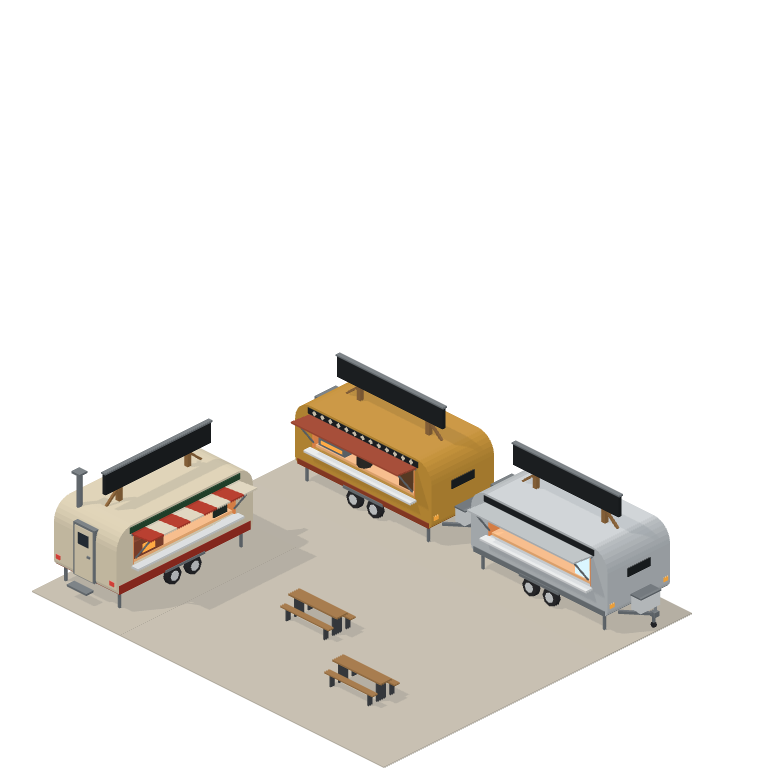
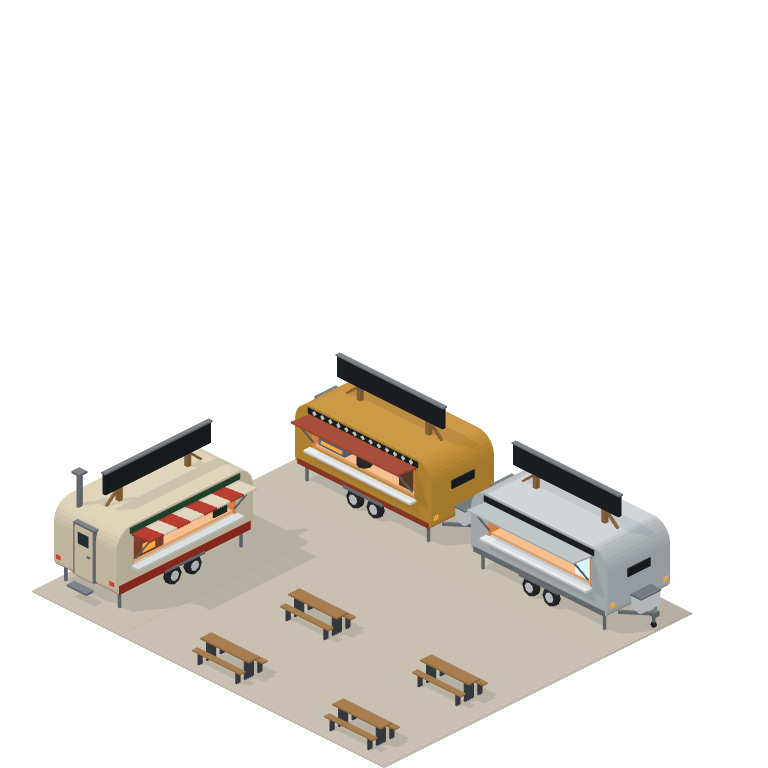
Food truck square: four beer tables in two rows, aisles kept open
Tables at plan (4, 4.5), (7, 4.5), (4, 6.5), (7, 6.5); rows 2-3 run along the back hatches, row 5 to the pizza hatch,
column 5 is the aisle from the way in. The street food seat moves to the north-east table.

Changed region(s): [[0.4062, 0.8438, 0.6562, 0.9688], [0.25, 0.8125, 0.3438, 0.9062]]

diff --git a/lib/city/models/cateItSquareStates.ts b/lib/city/models/cateItSquareStates.ts
@@ -5,7 +5,7 @@ import { createStreetFoodTrailerModel } from './cateItAfrican';
 import { BENCH_TOP, TABLE_TOP, beerTableSet, box } from './cateItSquareParts';
 
 // The food truck square for the city (Linear POR-38): one 8 x 7 walk-in plot with the three trailers around a small plaza
-// and two beer tables. Trucks stand square to the grid (a true half circle of 4 x 2 trucks needs 10 x 10): the street food
+// and four beer tables. Trucks stand square to the grid (a true half circle of 4 x 2 trucks needs 10 x 10): the street food
 // and burger trailers along the back (north) with their hatches south, the pizza trailer on the west side with its hatch
 // east, so every hatch faces the default camera. Model units are wu, the plot centred on the origin: X east (-4..4),
 // +Z south (-3.5..3.5). Plan tile (lx, ly) -> model (lx - 4, ly - 3.5). Walk map and beats: lib/city/buildingInteriors.ts,
@@ -21,11 +21,11 @@ export const TRUCKS: Record<Truck, { at: [number, number]; yawDeg: number }> = {
   pizza: { at: [1, 5], yawDeg: 90 },
 };
 /** Beer tables (centre, plan tiles, long side along X) and each truck's seat on a north bench (the avatar faces south) */
-export const TABLES: [number, number][] = [[4.0, 4.5], [6.0, 5.5]];
+export const TABLES: [number, number][] = [[4.0, 4.5], [7.0, 4.5], [4.0, 6.5], [7.0, 6.5]];
 export const SEATS: Record<Truck, [number, number]> = {
   burger: [4.3, 4.25],
   pizza: [3.7, 4.25],
-  african: [6.3, 5.25],
+  african: [7.3, 4.25],
 };
 const PAD = 0.02;
 const plan = (p: [number, number]): [number, number] => [p[0] - SQUARE.w / 2, p[1] - SQUARE.h / 2];

diff --git a/lib/city/buildingInteriors.ts b/lib/city/buildingInteriors.ts
@@ -68,8 +68,8 @@ const VALTECH_OFFICE: BuildingInterior = {
 };
 
 // The food truck square, 8 x 7 (lib/city/models/cateItSquareStates.ts): rows 0-1 the street food and burger trailers, the
-// pizza trailer in columns 0-1 of rows 3-6, two beer tables (tiles (3,4)-(4,4) and (5,5)-(6,5)). Row 2 runs along the back
-// hatches; the pizza hatch faces (2,5). No roof to take off: the plot counts as "inside" only so its stand tiles open their
+// pizza trailer in columns 0-1 of rows 3-6, four beer tables (tiles 3-4 and 6-7 of rows 4 and 6). Rows 2-3 run along the
+// back hatches, row 5 to the pizza hatch (it faces (2,5)), column 5 is the aisle from the way in. No roof to take off: the plot counts as "inside" only so its stand tiles open their
 // cards. Way in and out: the street tile south of (5,6).
 const CATE_IT_SQUARE: BuildingInterior = {
   map: [
@@ -77,9 +77,9 @@ const CATE_IT_SQUARE: BuildingInterior = {
     "########",
     "QQQQQQQQ",
     "##QQQQQQ",
-    "##Q##QQQ",
-    "##QQQ##Q",
+    "##Q##Q##",
     "##QQQQQQ",
+    "##Q##Q##",
   ],
   outside: "",
   doors: [],
@@ -87,7 +87,7 @@ const CATE_IT_SQUARE: BuildingInterior = {
   entrance: { outside: [5, 7], inside: [5, 6] },
   standSpots: {
     "hatch-african": [2.5, 2.5], "hatch-burger": [6.5, 2.5], "hatch-pizza": [2.5, 5.5],
-    "table-burger": [4.5, 3.5], "table-pizza": [3.5, 3.5], "table-african": [6.5, 4.5],
+    "table-burger": [4.5, 3.5], "table-pizza": [3.5, 3.5], "table-african": [7.5, 3.5],
   },
 };
 

diff --git a/lib/city/buildings.ts b/lib/city/buildings.ts
@@ -477,7 +477,7 @@ export const BUILDINGS: Record<string, BuildingDefinition> = {
   },
   // Cate it: the food truck square (Linear POR-38), art/img2threejs/cate-it-burger (+ cate-it-pizza, cate-it-african): one
   // 8 x 7 walk-in plot with the street food and burger trailers along the back (hatches south), the pizza trailer on the west
-  // side (hatch east) and two beer tables (lib/city/models/cateItSquareStates.ts, lab model cateItSquare, export_square.sh).
+  // side (hatch east) and four beer tables (lib/city/models/cateItSquareStates.ts, lab model cateItSquare, export_square.sh).
   // At each hatch: Eat (the avatar sits at a table) or Book for an event (lib/city/interiorBeats.ts). Replaces the old 3 x 3
   // Cate it building; the id stays, so its tour stop and the places checklist keep working.
   "cate-it": {

diff --git a/lib/city/interiorBeats.ts b/lib/city/interiorBeats.ts
@@ -152,7 +152,7 @@ export const INTERIOR_BEATS: Record<string, Record<string, InteriorBeat>> = {
       lead: "Three founders, three reasons to build.",
       text: "Shipping was easy. Agreeing on the scope was hard: we had to line up three different motivations first.",
       caseStudy: true,
-      seat: { at: [6.3, 5.25], screens: [] },
+      seat: { at: [7.3, 4.25], screens: [] },
     },
     booked: {
       kicker: "Inquiry sent",
